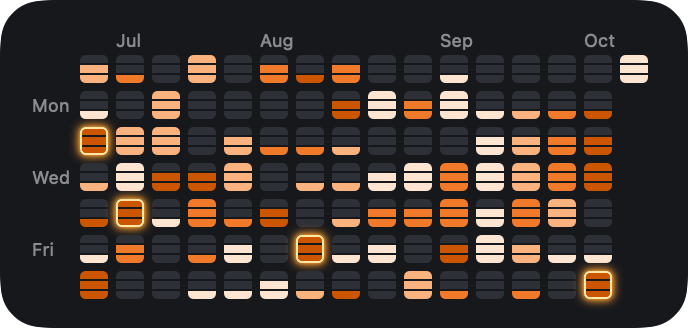
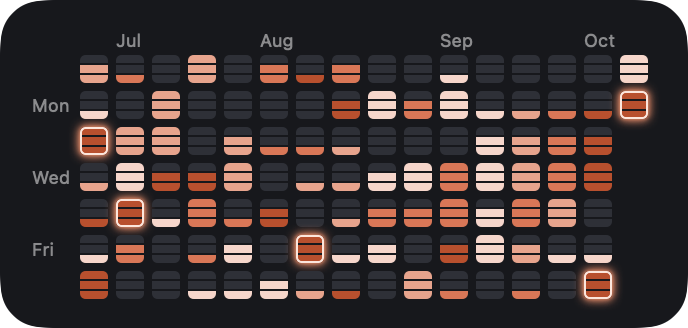
Use shades of #D97757 for the orange levels and afterburner glow
Levels 1-4 keep #D97757's hue and step its lightness: #F6D6CB, #E7A48D,
#D97757 (the base) and #B8502E. The afterburner rim and glow follow with
#FCE6DC and #F0916C.

diff --git a/app/Shared/Palette.swift b/app/Shared/Palette.swift
@@ -15,11 +15,12 @@ enum Palette {
     static let background = Color(hex: 0x17181c)  // also shows through the section dividers
     static let unfilled = Color(hex: 0x2e3037)    // an unfilled battery section (also days with no data)
     static let surface = Color(hex: 0x24262b)     // cards in the app's windows
-    /// Orange levels 1-4 (peak 5-hour %): light and whitish for a quiet day, deep and vivid near the limit.
-    static let levels = [Color(hex: 0xFDE5D2), Color(hex: 0xFAB27E), Color(hex: 0xF07A2A), Color(hex: 0xCC5500)]
-    /// Afterburner: a pale, hot yellow rim with an orange glow around the cell.
-    static let afterburnerRim = Color(hex: 0xFFE7A8)
-    static let afterburnerGlow = Color(hex: 0xFF9F2E)
+    /// Orange levels 1-4 (peak 5-hour %), shades of #D97757 (hue 15°): light and
+    /// whitish for a quiet day, the base color at level 3, deep rust near the limit.
+    static let levels = [Color(hex: 0xF6D6CB), Color(hex: 0xE7A48D), Color(hex: 0xD97757), Color(hex: 0xB8502E)]
+    /// Afterburner: a pale peach rim with a bright #D97757-family glow around the cell.
+    static let afterburnerRim = Color(hex: 0xFCE6DC)
+    static let afterburnerGlow = Color(hex: 0xF0916C)
 }
 
 /// How cells are painted.

diff --git a/PLAN.md b/PLAN.md
@@ -112,6 +112,7 @@ Verified on 2026-09-30. You use Claude Code **only in the desktop app's Code tab
 24. **Battery from sessions, afterburner glow (your call, Oct 11).** `section_source: "sessions"` (default) fills sections by the day's session count (`session_section_thresholds` [1, 4]: 1 → 1, 2–4 → 2, 5+ → 3); `"usage"` brings back the weekly share. "Sessions" are Claude Code sessions plus claude.ai chats, the same count as everywhere else. Days before usage tracking now fill too, with the lightest orange. Afterburner: the day's 5-hour readings are grouped into windows by `resets_at` (within the 1-hour tolerance; readings without one are left out), and a day glows if a window peaked at ≥ `afterburner_maxed_pct` (100) and another window that day went over `afterburner_other_pct` (10). The glow is a pale yellow rim plus an orange shadow, drawn on a flattened cell so it stays outside the battery. Snapshot version 3 adds `battery`, `afterburner` and a per-day `afterburner`; details add `five_hour_windows`. Your closest day so far: Oct 11, windows at 98%, 1% and 8%.
 25. **Second afterburner rule (your call, Oct 11).** A day also glows if a window peaked over `afterburner_high_pct` (80) and a later window that day (by `resets_at`) peaked over `afterburner_next_pct` (21); both comparisons are strict. Any later window counts, not only the very next: on Oct 11 a 1% window (started by an Update Now at 3:20 PM) sat between the 98% and 90% windows, and meter calls can start such near-empty windows. Both rules are OR'd. The snapshot's `afterburner` gains `high_pct` and `next_pct` (the app falls back to 80/21 without them).
 26. **Chats and usage from the Claude app's local data (your call, Oct 12; you relaxed the local-storage rule for this).** `app_scan.py` (venv Python 3.14 for zstd) runs every 10 minutes from the app. It clones `Cache/Cache_Data` and `plan-usage-history.json` to a temp dir (APFS clone) and deletes it after. From the cache it reads only entries whose key is a `chat_conversations_v2` list or a `chat_conversations/<id>` fetch: chat ID, `name`, the local days of `created_at` and `latest_assistant_output_at` (else `updated_at`), and message `created_at` days. `summary` and message text are dropped. Results merge into `app-chats.json` (IDs dedupe, days accumulate). The aggregator merges it with the export; for chats the export holds, only scanned days after `imported_through` are added. The chat reminder now uses the later of the export date and the last scan that found chats. Usage-history samples (5-hour `fh`, weekly `sd`, no reset times) are appended once each to `readings.jsonl` as source `app_history`; that file stopped being written on Oct 10, so the meter stays. First real scan: 84 chats; Oct 11 went from 1 to 17 sessions; tracking now starts Sep 10. A scan takes about 10 s, mostly cloning ~26k cache files.
+27. **Palette: shades of #D97757 (your call, Oct 12).** Replaces decision 15's oranges, keeping hue 15° and stepping lightness: level 1 `#F6D6CB`, level 2 `#E7A48D`, level 3 `#D97757` (the base), level 4 `#B8502E`. The afterburner rim and glow follow: `#FCE6DC` and `#F0916C`.
 
 ## Architecture
 

diff --git a/README.md b/README.md
@@ -46,11 +46,11 @@ Sessions are known further back than usage (chats go back as far as your export)
 
 | Peak 5-hour % that day | up to 25% | up to 50% | up to 75% | above 75% |
 |---|---|---|---|---|
-| Filled section color | `#FDE5D2` | `#FAB27E` | `#F07A2A` | `#CC5500` |
+| Filled section color | `#F6D6CB` | `#E7A48D` | `#D97757` | `#B8502E` |
 
 A day with usage or sessions but no 5-hour reading (such as a day before tracking started) gets the lightest orange. The peak is only as good as the readings behind it; see [Known limitations](#known-limitations). To color by session count instead (Claude Code sessions plus claude.ai chats, ranked against your own history), set `"level_source": "sessions"` in the config.
 
-**Afterburner.** A day glows, with a pale yellow rim (`#FFE7A8`) and an orange halo (`#FF9F2E`), when its 5-hour windows show you running hot and then going again:
+**Afterburner.** A day glows, with a pale peach rim (`#FCE6DC`) and a bright halo (`#F0916C`), when its 5-hour windows show you running hot and then going again:
 
 - one window was maxed out (100%) and another that day went over 10%, or
 - one window went over 80% and a later window that day went over 21%. Any later window counts, so a near-empty window in between (for example one started by a meter call) doesn't break it.
